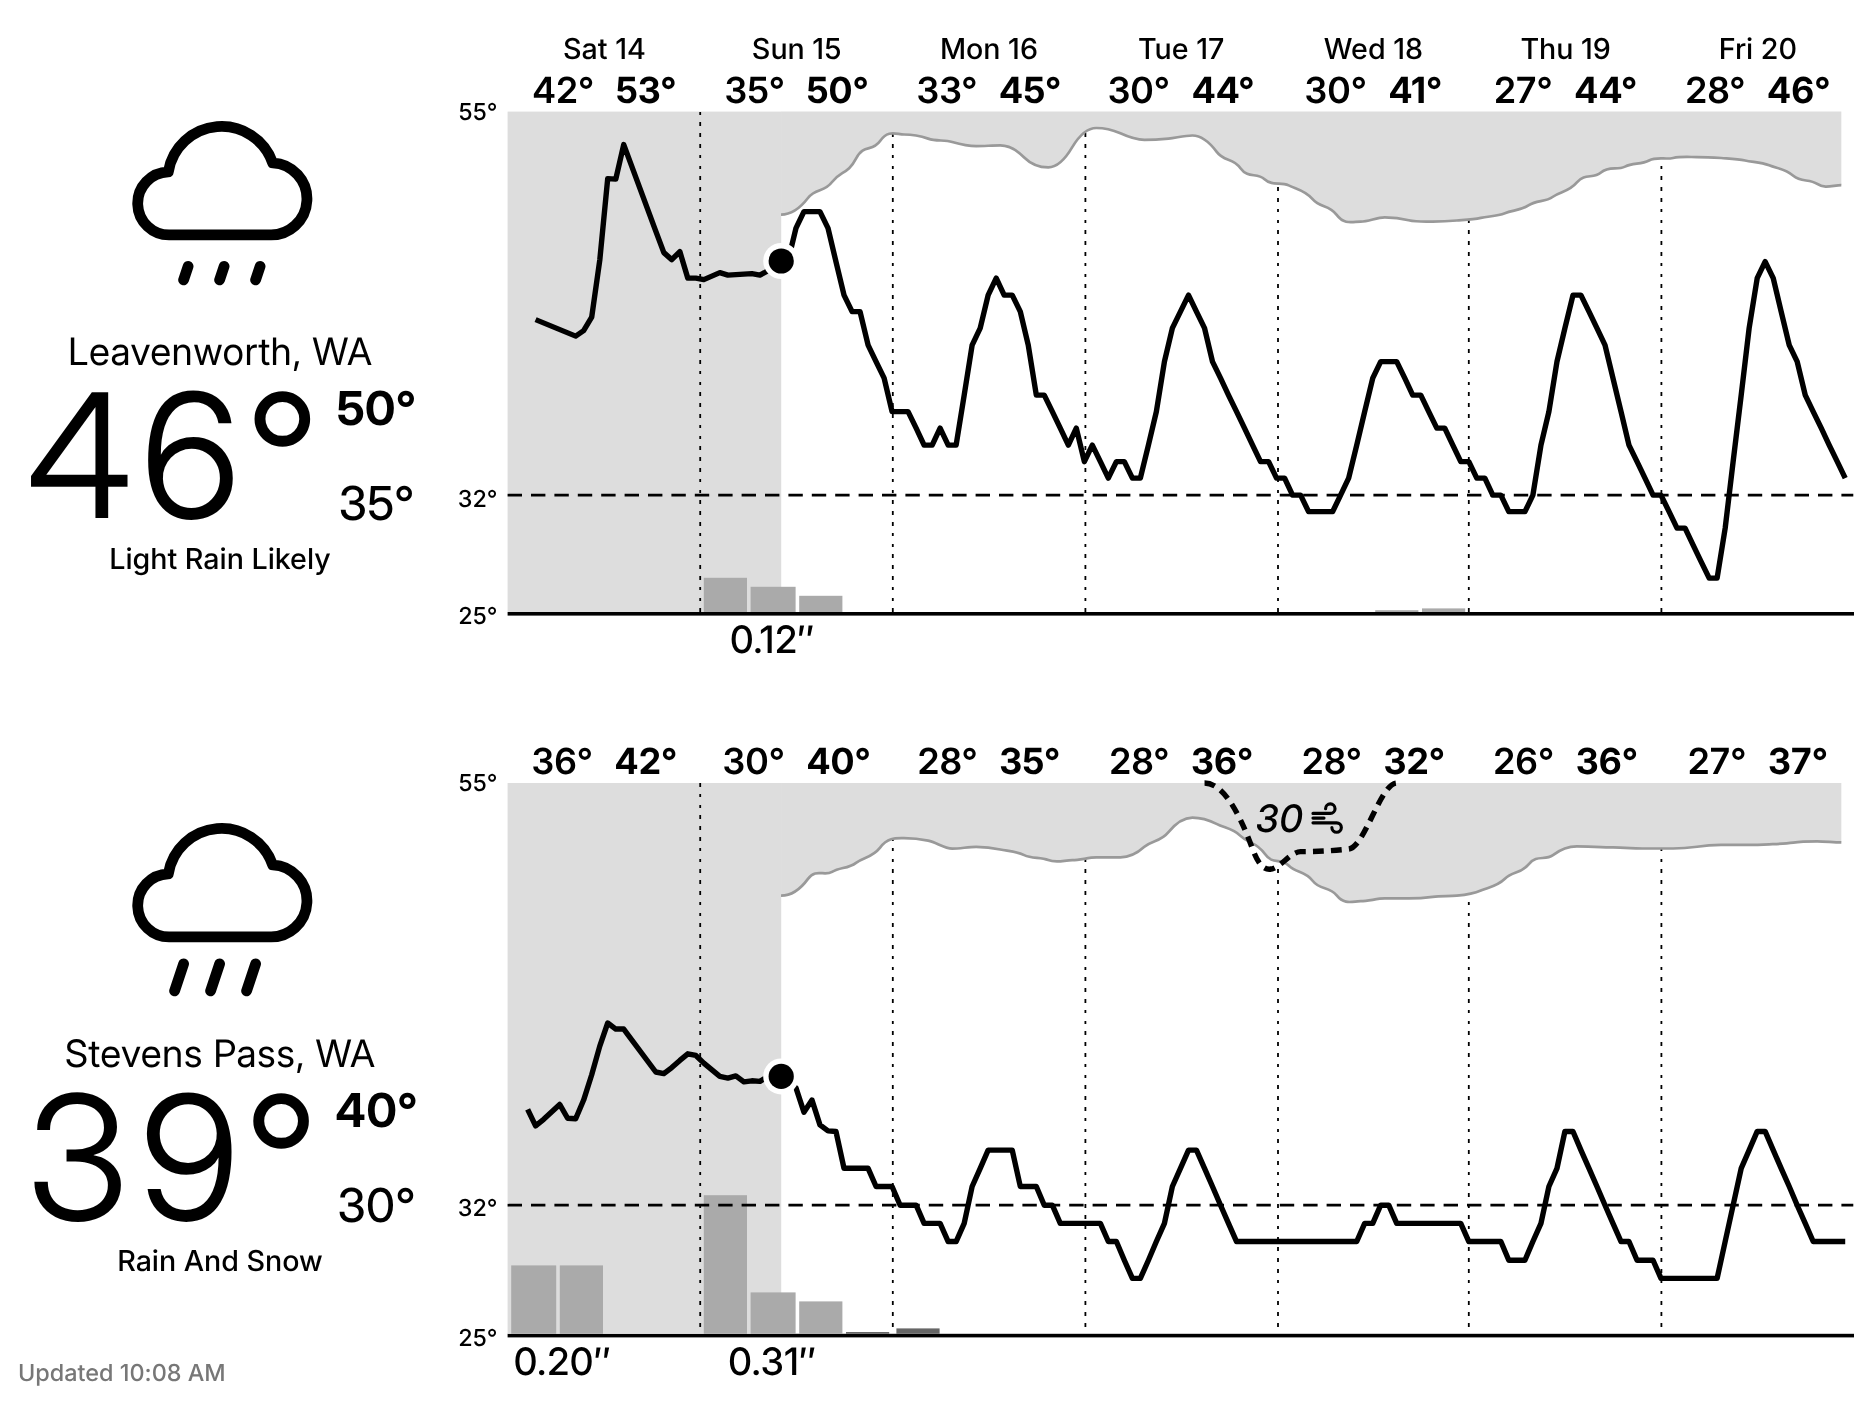
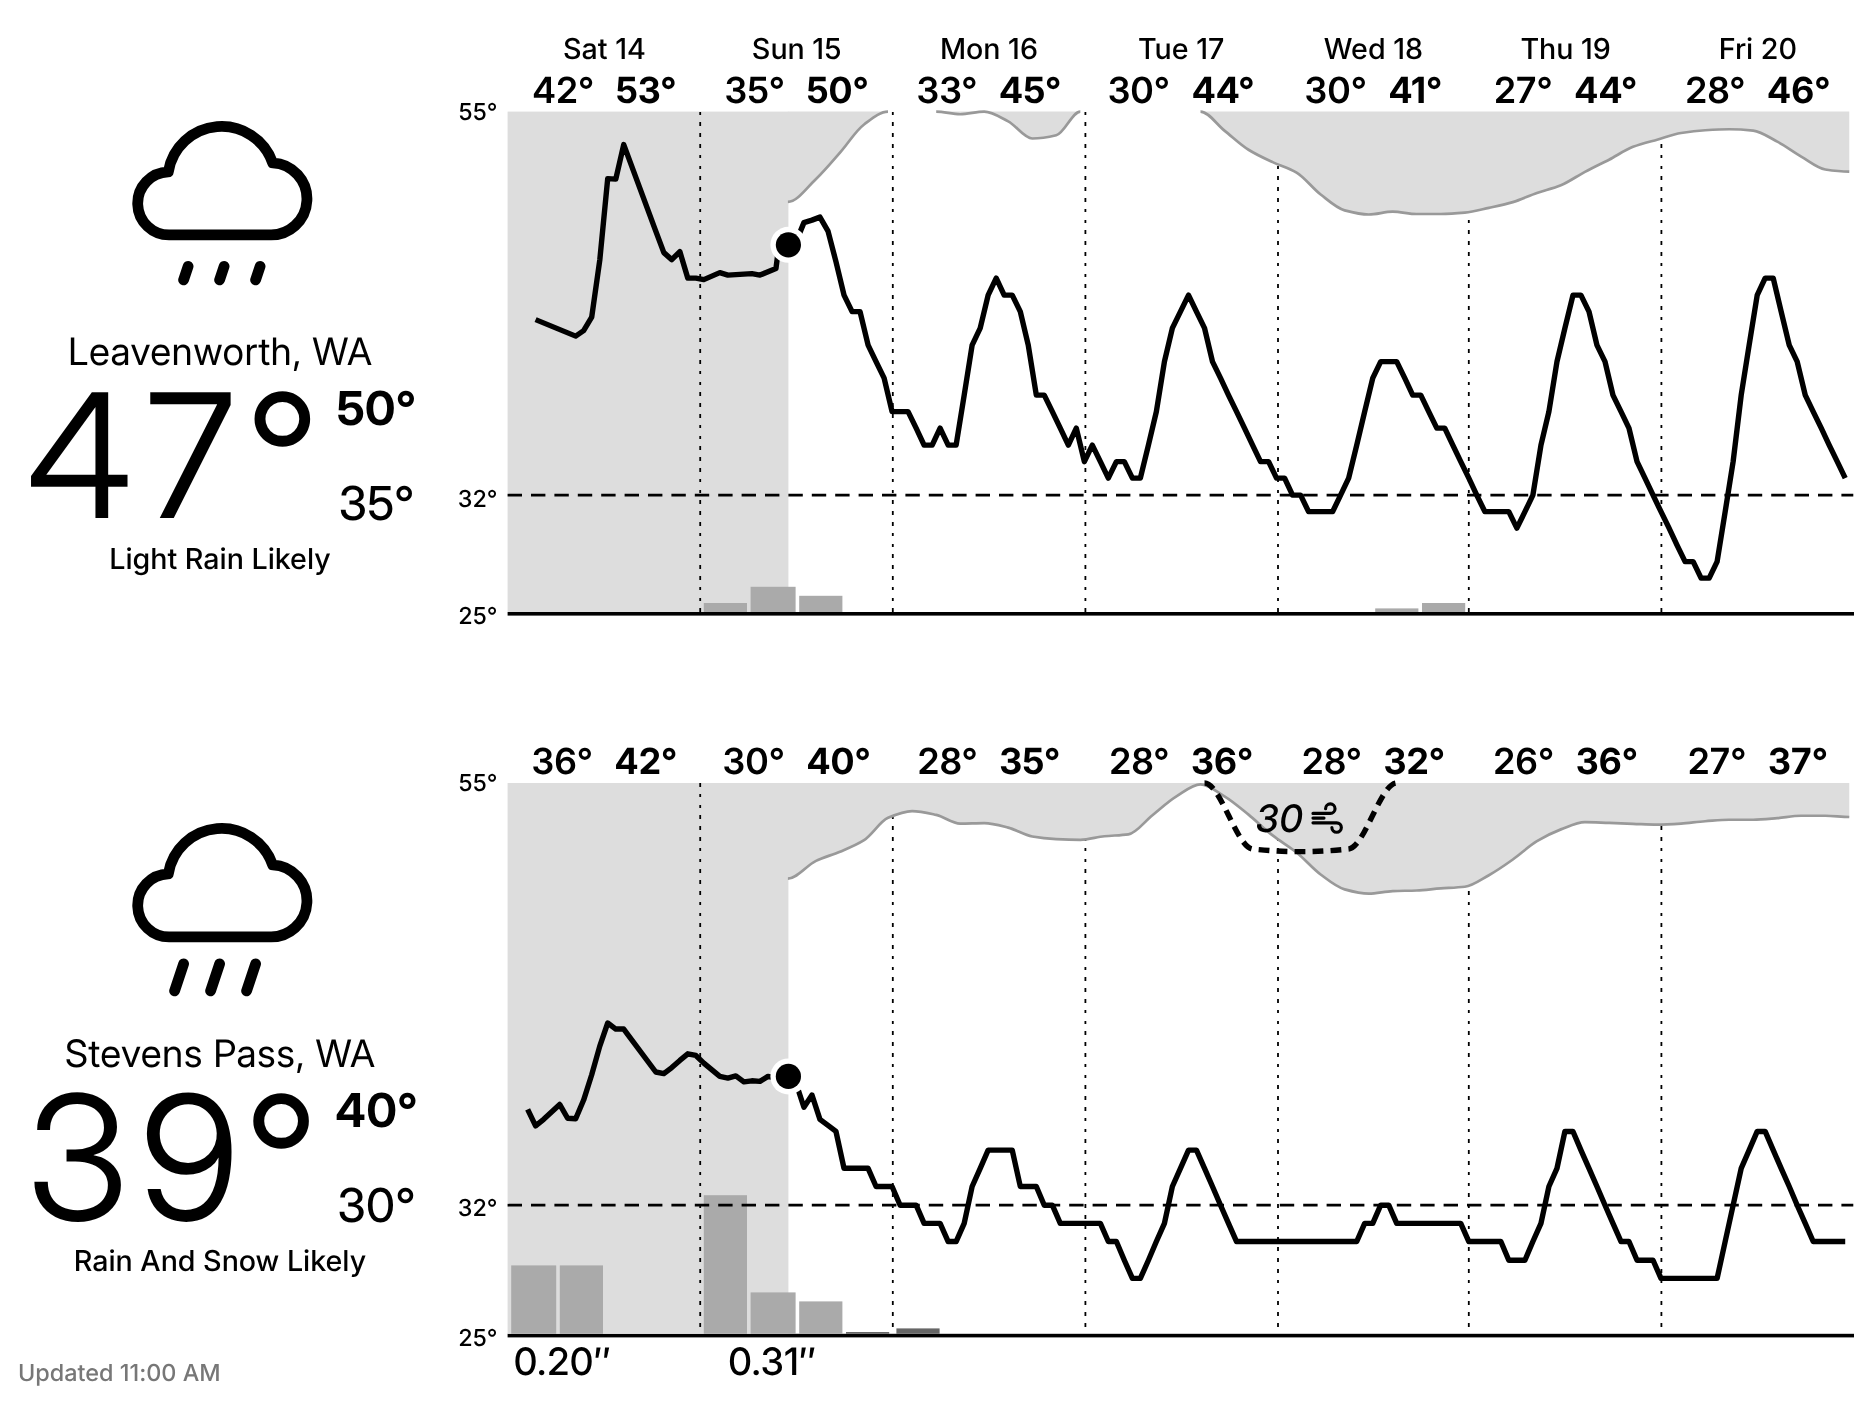
Count under 25% cloud cover as clear; fix the curve's tangent weights
Clouds now hang in proportion to cover above 25%, and clear stretches draw
nothing, not even an edge along the top. The monotone curve shared with the
wind used a wrong weight in its harmonic mean (h1-h0 for h1+2h0), which let
curves overshoot; it's the Fritsch-Butland formula now.

Claude-Session: https://claude.ai/code/session_018zBtTfGxqR6ysBZYHYeVbJ

diff --git a/server/forecast/sky.go b/server/forecast/sky.go
@@ -16,7 +16,8 @@ const (
 )
 
 // fillSky draws the forecast's cloud cover in the chart's top band, as a shape hanging from the top
-// as deep as the sky is covered: SkyPath is the filled shape, SkyEdge its lower edge. It starts at
+// as deep as the sky is covered beyond clear (see cloudDepth): SkyPath is the filled shape, SkyEdge
+// its lower edge. It starts at
 // now: none of the stations report clouds, so the past has none.
 func (c *Chart) fillSky(grid *GridData, start, end, now time.Time) {
 	ivs := grid.Properties.SkyCover.intervals()
@@ -55,13 +56,40 @@ func (c *Chart) fillSky(grid *GridData, start, end, now time.Time) {
 		if i == first {
 			x = math.Max(xOf(now), xOf(hours[i]))
 		}
-		xs, ys = append(xs, x), append(ys, sum/float64(n))
+		xs, ys = append(xs, x), append(ys, cloudDepth(sum/float64(n)))
 	}
-	if len(xs) < 2 {
-		return
+
+	// One shape per cloudy stretch, each easing in from and out to the clear points beside it, so
+	// clear sky is left empty (no edge drawn along the top).
+	c.SkyEdge, c.SkyPath = "", ""
+	for i := 0; i < len(xs); i++ {
+		if ys[i] == 0 {
+			continue
+		}
+		from, to := max(i-1, 0), i
+		for to+1 < len(xs) && ys[to+1] > 0 {
+			to++
+		}
+		to = min(to+1, len(xs)-1)
+		if to > from {
+			edge := smoothPath(xs[from:to+1], ys[from:to+1])
+			c.SkyEdge += edge
+			c.SkyPath += "M" + fmtX(xs[from]) + ",0L" + strings.TrimPrefix(edge, "M") + "L" + fmtX(xs[to]) + ",0Z"
+		}
+		i = to
 	}
-	c.SkyEdge = smoothPath(xs, ys)
-	c.SkyPath = "M" + fmtX(xs[0]) + ",0L" + strings.TrimPrefix(c.SkyEdge, "M") + "L" + fmtX(xs[len(xs)-1]) + ",0Z"
+}
+
+// clearSkyCover is the cloud cover (%) below which the sky counts as clear and nothing is drawn.
+const clearSkyCover = 25.0
+
+// cloudDepth maps cloud cover to how far the shape hangs into the band (0-100): nothing when clear,
+// then in proportion from clearSkyCover to overcast, so it grows from nothing rather than jumping.
+func cloudDepth(cover float64) float64 {
+	if cover < clearSkyCover {
+		return 0
+	}
+	return math.Round((cover-clearSkyCover)/(100-clearSkyCover)*1000) / 10
 }
 
 func fmtX(v float64) string { return strconv.FormatFloat(math.Round(v*10)/10, 'f', -1, 64) }

diff --git a/server/forecast/glance_test.go b/server/forecast/glance_test.go
@@ -1005,8 +1005,13 @@ func TestFillSky(t *testing.T) {
 		t.Errorf("sky path = %.60s… edge %.40s…", c.SkyPath, c.SkyEdge)
 	}
 	// The 7-hour average eases the change: the point for 1-2 AM (10 PM-5 AM: 2 overcast hours, 5
-	// clear) is in between.
-	if !strings.Contains(c.SkyEdge, " 531.3,35.7") {
+	// clear) averages 35.7%, which hangs (35.7-25)/75 = 14.3% deep.
+	if !strings.Contains(c.SkyEdge, " 531.3,14.3") {
+		t.Errorf("edge = %s", c.SkyEdge)
+	}
+	// Under 25% is clear: the shape ends at the first clear point, with nothing drawn after it,
+	// and the curve stays inside the band.
+	if !strings.HasSuffix(c.SkyEdge, " 593.8,0") || strings.Contains(c.SkyEdge, "-") {
 		t.Errorf("edge = %s", c.SkyEdge)
 	}
 	// Before the forecast starts there's no sky at all.
@@ -1020,5 +1025,13 @@ func TestFillSky(t *testing.T) {
 	c.fillSky(&GridData{}, start, start.AddDate(0, 0, 2), start)
 	if c.SkyPath != "" || c.SkyEdge != "" {
 		t.Errorf("empty sky = %q / %q", c.SkyPath, c.SkyEdge)
+	}
+}
+
+func TestCloudDepth(t *testing.T) {
+	for cover, want := range map[float64]float64{0: 0, 24.9: 0, 25: 0, 40: 20, 62.5: 50, 100: 100} {
+		if got := cloudDepth(cover); got != want {
+			t.Errorf("cloudDepth(%v) = %v, want %v", cover, got, want)
+		}
 	}
 }

diff --git a/server/forecast/wind.go b/server/forecast/wind.go
@@ -83,7 +83,9 @@ func smoothPath(xs, ys []float64) string {
 	t := make([]float64, m) // tangents (Fritsch-Carlson); flat at peaks and at the ends
 	for i := 1; i < m-1; i++ {
 		if d[i-1]*d[i] > 0 {
-			t[i] = 3 * (xs[i+1] - xs[i-1]) / ((2*xs[i+1]-xs[i]-xs[i-1])/d[i-1] + (xs[i+1]-2*xs[i]+xs[i-1])/d[i])
+			// Fritsch-Butland: a weighted harmonic mean of the slopes on either side.
+			h0, h1 := xs[i]-xs[i-1], xs[i+1]-xs[i]
+			t[i] = 3 * (h0 + h1) / ((2*h1+h0)/d[i-1] + (h1+2*h0)/d[i])
 		}
 	}
 	f := func(v float64) string { return strconv.FormatFloat(math.Round(v*10)/10, 'f', -1, 64) }
